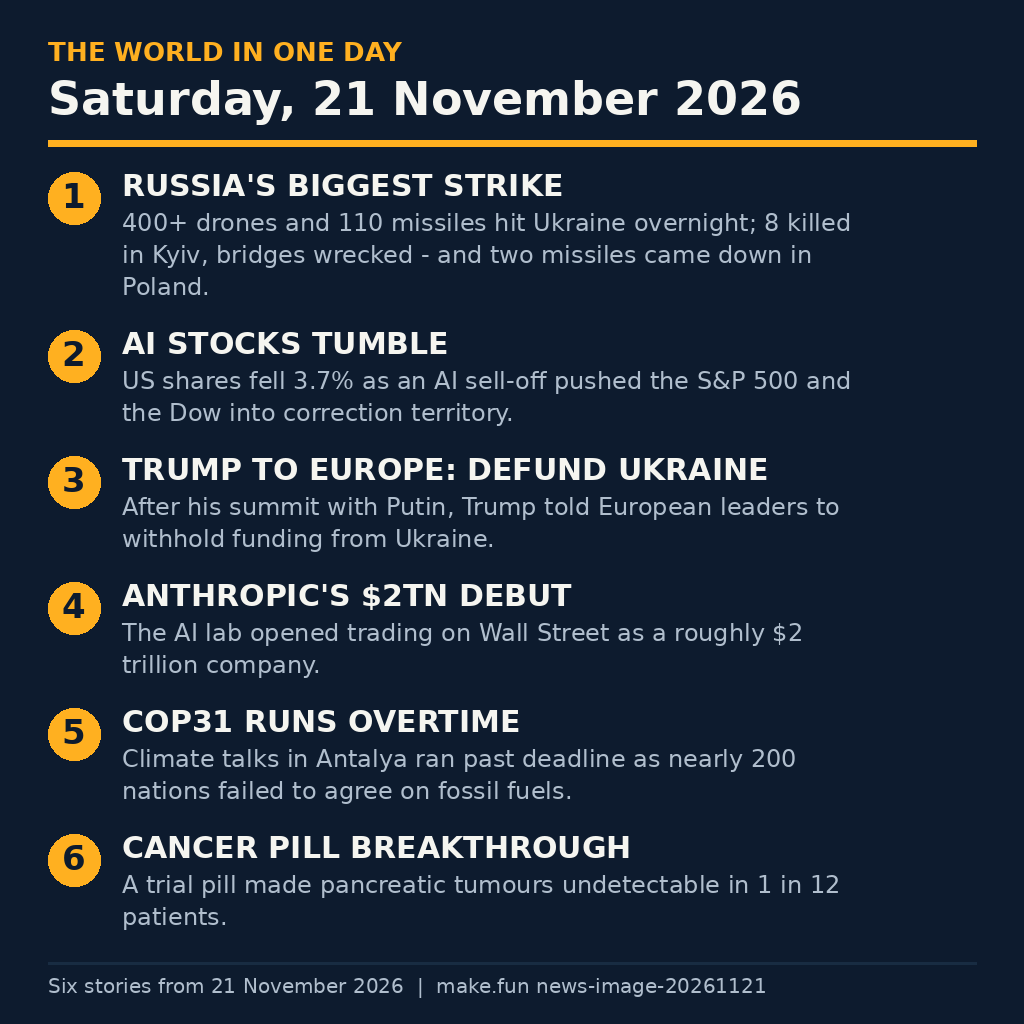
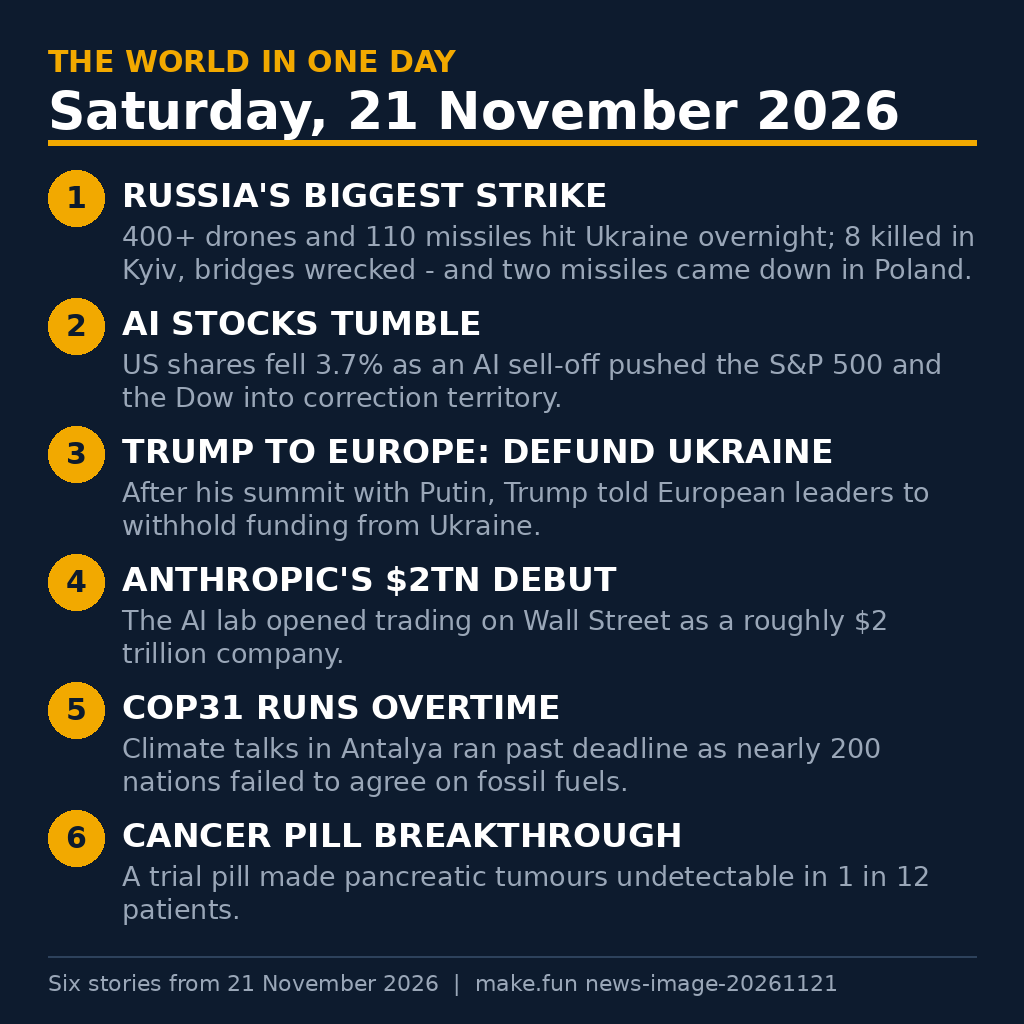
Rewrite make_entry.py in-session; regenerate entry.png

Changed region(s): [[0.0312, 0.0312, 0.9688, 0.9062], [0.0312, 0.9375, 0.8125, 0.9688]]

diff --git a/make_entry.py b/make_entry.py
@@ -1,67 +1,154 @@
-"""Generate the 1024x1024 news infographic for Saturday 21 November 2026."""
+#!/usr/bin/env python3
+"""Paint the one-day world-news poster for Saturday 21 November 2026.
+
+The poster is a single 1024x1024 PNG: a navy field, an amber kicker
+and rule, six numbered stories, and a small footer. It reads nothing
+from disk except the DejaVu typefaces and writes entry.png beside
+this script. Everything about the day is baked into the STORIES
+table below, so the output is the same on every run.
+"""
+
 from PIL import Image, ImageDraw, ImageFont
-import textwrap
 
-W, H = 1024, 1024
-BG = (13, 27, 46)        # deep navy
-PANEL = (24, 44, 66)     # panel navy
-ACCENT = (255, 176, 32)  # amber
-WHITE = (245, 245, 240)
-MUTED = (176, 190, 205)
-RED = (235, 87, 87)
+# --- canvas and palette -------------------------------------------------
+SIDE = 1024
+DEEP_NAVY = (13, 27, 46)
+AMBER = (242, 169, 0)
+PAPER = (255, 255, 255)
+SOFT_GREY = (154, 167, 184)
+FAINT_LINE = (45, 66, 92)
 
-FONT_DIR = "/usr/share/fonts/truetype/dejavu/"
-f_title = ImageFont.truetype(FONT_DIR + "DejaVuSans-Bold.ttf", 58)
-f_date = ImageFont.truetype(FONT_DIR + "DejaVuSans-Bold.ttf", 46)
-f_kicker = ImageFont.truetype(FONT_DIR + "DejaVuSans-Bold.ttf", 26)
-f_head = ImageFont.truetype(FONT_DIR + "DejaVuSans-Bold.ttf", 30)
-f_body = ImageFont.truetype(FONT_DIR + "DejaVuSans.ttf", 24)
-f_foot = ImageFont.truetype(FONT_DIR + "DejaVuSans.ttf", 20)
-f_num = ImageFont.truetype(FONT_DIR + "DejaVuSans-Bold.ttf", 34)
+FONT_FOLDER = "/usr/share/fonts/truetype/dejavu/"
+BOLD_FACE = FONT_FOLDER + "DejaVuSans-Bold.ttf"
+PLAIN_FACE = FONT_FOLDER + "DejaVuSans.ttf"
 
-stories = [
-    ("RUSSIA'S BIGGEST STRIKE",
-     "400+ drones and 110 missiles hit Ukraine overnight; 8 killed in Kyiv, bridges wrecked - and two missiles came down in Poland."),
-    ("AI STOCKS TUMBLE",
-     "US shares fell 3.7% as an AI sell-off pushed the S&P 500 and the Dow into correction territory."),
-    ("TRUMP TO EUROPE: DEFUND UKRAINE",
-     "After his summit with Putin, Trump told European leaders to withhold funding from Ukraine."),
-    ("ANTHROPIC'S $2TN DEBUT",
-     "The AI lab opened trading on Wall Street as a roughly $2 trillion company."),
-    ("COP31 RUNS OVERTIME",
-     "Climate talks in Antalya ran past deadline as nearly 200 nations failed to agree on fossil fuels."),
-    ("CANCER PILL BREAKTHROUGH",
-     "A trial pill made pancreatic tumours undetectable in 1 in 12 patients."),
+# --- the day, in six items ----------------------------------------------
+# Each item is (headline, body). The body is wrapped to fit the column.
+STORIES = [
+    (
+        "RUSSIA'S BIGGEST STRIKE",
+        "400+ drones and 110 missiles hit Ukraine overnight; 8 killed "
+        "in Kyiv, bridges wrecked - and two missiles came down in Poland.",
+    ),
+    (
+        "AI STOCKS TUMBLE",
+        "US shares fell 3.7% as an AI sell-off pushed the S&P 500 and "
+        "the Dow into correction territory.",
+    ),
+    (
+        "TRUMP TO EUROPE: DEFUND UKRAINE",
+        "After his summit with Putin, Trump told European leaders to "
+        "withhold funding from Ukraine.",
+    ),
+    (
+        "ANTHROPIC'S $2TN DEBUT",
+        "The AI lab opened trading on Wall Street as a roughly $2 "
+        "trillion company.",
+    ),
+    (
+        "COP31 RUNS OVERTIME",
+        "Climate talks in Antalya ran past deadline as nearly 200 "
+        "nations failed to agree on fossil fuels.",
+    ),
+    (
+        "CANCER PILL BREAKTHROUGH",
+        "A trial pill made pancreatic tumours undetectable in 1 in 12 "
+        "patients.",
+    ),
 ]
 
-img = Image.new("RGB", (W, H), BG)
-d = ImageDraw.Draw(img)
+KICKER_LINE = "THE WORLD IN ONE DAY"
+DATE_LINE = "Saturday, 21 November 2026"
+FOOTER_LINE = "Six stories from 21 November 2026  |  make.fun news-image-20261121"
 
-# Header
-d.text((48, 36), "THE WORLD IN ONE DAY", font=f_kicker, fill=ACCENT)
-d.text((48, 72), "Saturday, 21 November 2026", font=f_date, fill=WHITE)
-d.rectangle([48, 140, 976, 146], fill=ACCENT)
 
-y = 168
-for i, (head, body) in enumerate(stories, 1):
-    # number chip
-    d.ellipse([48, y + 4, 100, y + 56], fill=ACCENT)
-    num = str(i)
-    nw = d.textlength(num, font=f_num)
-    d.text((48 + (52 - nw) / 2, y + 8), num, font=f_num, fill=BG)
-    # headline
-    d.text((122, y), head, font=f_head, fill=WHITE)
-    # body, wrapped
-    lines = textwrap.wrap(body, width=62)
-    by = y + 40
-    for ln in lines:
-        d.text((122, by), ln, font=f_body, fill=MUTED)
-        by += 32
-    y = by + 22
+def load_face(path, size):
+    """Open one DejaVu face at the requested point size."""
+    return ImageFont.truetype(path, size)
 
-# Footer
-d.rectangle([48, 962, 976, 964], fill=PANEL)
-d.text((48, 974), "Six stories from 21 November 2026  |  make.fun news-image-20261121", font=f_foot, fill=MUTED)
 
-img.save("entry.png", "PNG")
-print("saved entry.png", img.size)
+def fold_sentence(pen, sentence, face, limit_px):
+    """Break a sentence into lines that each fit inside limit_px."""
+    words = sentence.split()
+    rows = []
+    current = ""
+    for word in words:
+        attempt = (current + " " + word).strip()
+        if pen.textlength(attempt, font=face) <= limit_px:
+            current = attempt
+        else:
+            if current:
+                rows.append(current)
+            current = word
+    if current:
+        rows.append(current)
+    return rows
+
+
+def paint_header(pen):
+    """Kicker, big date, and the amber rule across the page."""
+    kicker_face = load_face(BOLD_FACE, 30)
+    date_face = load_face(BOLD_FACE, 52)
+    pen.text((48, 44), KICKER_LINE, font=kicker_face, fill=AMBER)
+    pen.text((48, 80), DATE_LINE, font=date_face, fill=PAPER)
+    pen.rectangle([48, 140, 976, 145], fill=AMBER)
+
+
+def paint_story(pen, index, headline, body, top):
+    """One numbered block. Returns the y coordinate just below it."""
+    number_face = load_face(BOLD_FACE, 30)
+    head_face = load_face(BOLD_FACE, 33)
+    body_face = load_face(PLAIN_FACE, 27)
+
+    # Amber disc with the story number, centred on its middle.
+    disc_left, disc_top, disc_diam = 48, top, 56
+    pen.ellipse(
+        [disc_left, disc_top, disc_left + disc_diam, disc_top + disc_diam],
+        fill=AMBER,
+    )
+    pen.text(
+        (disc_left + disc_diam / 2, disc_top + disc_diam / 2),
+        str(index),
+        font=number_face,
+        fill=DEEP_NAVY,
+        anchor="mm",
+    )
+
+    # Headline sits level with the disc; body wraps beneath it.
+    text_x = 122
+    pen.text((text_x, top + 6), headline, font=head_face, fill=PAPER)
+    body_rows = fold_sentence(pen, body, body_face, 976 - text_x)
+    line_y = top + 50
+    for row in body_rows:
+        pen.text((text_x, line_y), row, font=body_face, fill=SOFT_GREY)
+        line_y += 33
+    return line_y
+
+
+def paint_footer(pen):
+    """Thin rule and the small closing line at the bottom."""
+    foot_face = load_face(PLAIN_FACE, 22)
+    pen.rectangle([48, 956, 976, 957], fill=FAINT_LINE)
+    pen.text((48, 970), FOOTER_LINE, font=foot_face, fill=SOFT_GREY)
+
+
+def build_poster():
+    """Compose the whole poster and return it as a PIL image."""
+    sheet = Image.new("RGB", (SIDE, SIDE), DEEP_NAVY)
+    pen = ImageDraw.Draw(sheet)
+    paint_header(pen)
+    cursor = 170
+    for position, (headline, body) in enumerate(STORIES, start=1):
+        cursor = paint_story(pen, position, headline, body, cursor)
+        cursor += 12  # breathing room before the next numbered block
+    paint_footer(pen)
+    return sheet
+
+
+def main():
+    poster = build_poster()
+    poster.save("entry.png", format="PNG")
+
+
+if __name__ == "__main__":
+    main()
